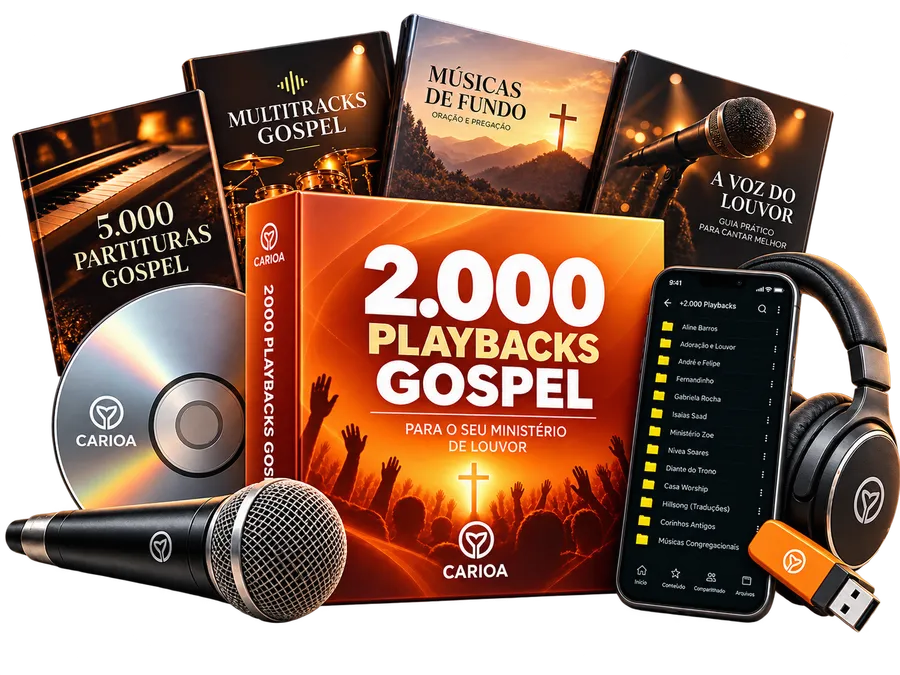
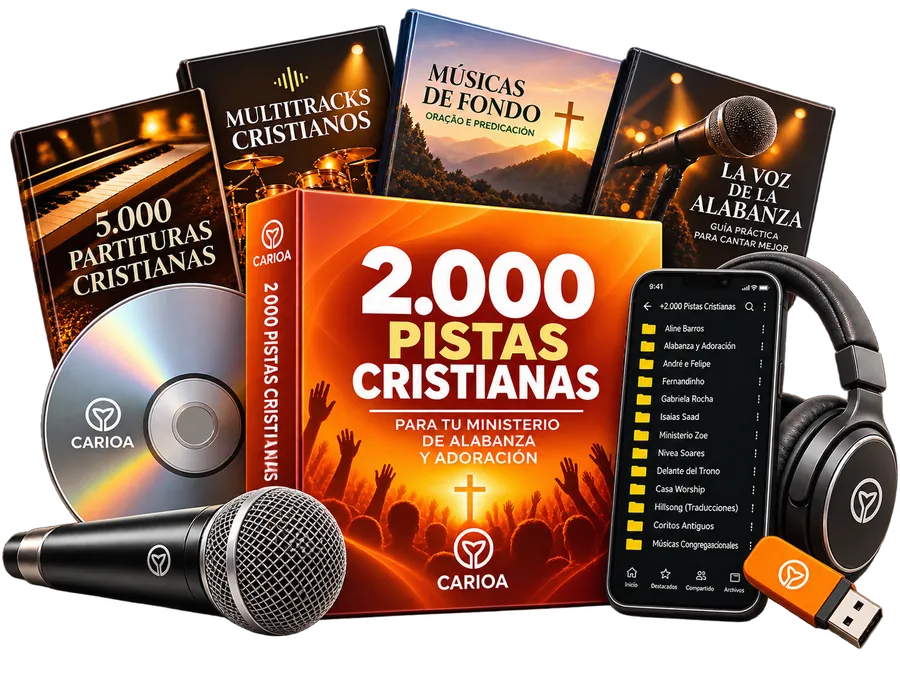
Troca os mockups pelas novas artes em espanhol
- Topo, chamada final e imagem de compartilhamento com a caixa
  "2.000 Pistas Cristianas"
- Card do Completo e modal com o kit novo; "Lo que recibes" com a
  coleção nova
- Versão leve do topo (600px) para celulares simples
- Imagem do modal só carrega quando o modal abre
- og:image com o endereço completo do site

diff --git a/index.html b/index.html
@@ -12,18 +12,17 @@
     <meta property="og:description" content="Más de 2000 pistas cristianas de alta calidad. Acceso inmediato, directo a tu memoria USB.">
     <meta property="og:type" content="website">
     <meta property="og:locale" content="es_LA">
-    <!-- TROCAR pelo endereço final do site quando publicar (ex.: https://seusite.com/img/og.jpg) -->
-    <meta property="og:image" content="img/og.jpg">
+    <meta property="og:image" content="https://louvor-instantaneo.vercel.app/img/og.jpg?v=2">
     <meta property="og:image:width" content="1200">
     <meta property="og:image:height" content="630">
     <meta name="twitter:card" content="summary_large_image">
-    <meta name="twitter:image" content="img/og.jpg">
+    <meta name="twitter:image" content="https://louvor-instantaneo.vercel.app/img/og.jpg?v=2">
     <link rel="icon" href="favicon.ico">
     <meta name="theme-color" content="#dc2626">
     <link rel="preconnect" href="https://fonts.googleapis.com">
     <link rel="preconnect" href="https://fonts.gstatic.com" crossorigin>
     <link rel="stylesheet" href="https://fonts.googleapis.com/css2?family=Inter:wght@400;500;600;700;800;900&family=Poppins:wght@700;800&display=swap">
-    <link rel="preload" as="image" href="img/hero.webp?v=3">
+    <link rel="preload" as="image" href="img/hero.webp?v=4" imagesrcset="img/hero-600.webp?v=4 600w, img/hero.webp?v=4 1000w" imagesizes="(min-width: 768px) 672px, calc(100vw - 2rem)">
     <link rel="stylesheet" href="css/base.css">
     <link rel="stylesheet" href="css/extra.css">
     <link rel="stylesheet" href="css/tema.css">
@@ -47,7 +46,7 @@
           Se acabó improvisar en el culto. Descarga tus pistas cristianas hoy mismo, directo a tu memoria USB, de forma simple y práctica.
         </p>
         <div class="pb-hero-img w-full max-w-2xl mx-auto mb-10">
-          <img src="img/hero.webp?v=3" alt="2000 Pistas Cristianas para tu ministerio de alabanza" width="1000" height="693" class="w-full h-auto rounded-lg" fetchpriority="high">
+          <img src="img/hero.webp?v=4" srcset="img/hero-600.webp?v=4 600w, img/hero.webp?v=4 1000w" sizes="(min-width: 768px) 672px, calc(100vw - 2rem)" alt="2000 Pistas Cristianas para tu ministerio de alabanza" width="1000" height="693" class="w-full h-auto rounded-lg" fetchpriority="high">
         </div>
         <p class="pb-hero-preco"><span>De <s>US$ 27</s> por solo</span> <strong>US$ 9.90</strong><small>pago único · acceso inmediato</small></p>
         <button data-rolar class="w-full md:w-auto px-10 py-5 bg-green-500 hover:bg-green-600 active:bg-green-700 text-white text-xl md:text-2xl font-black rounded-xl shadow-[0_6px_0_#16a34a] hover:shadow-[0_4px_0_#16a34a] hover:translate-y-[2px] transition-all flex flex-col items-center justify-center uppercase tracking-wider">
@@ -85,7 +84,7 @@
         <div class="pb-receb-card">
           <h2 class="pb-receb-h">Mira lo que recibes en la práctica</h2>
           <p class="pb-receb-p">Todo separado en carpetas, tal como llega a tu Google Drive.</p>
-          <div class="pb-receb-produto"><img src="img/por-dentro-900.webp" srcset="img/por-dentro-900.webp 900w, img/por-dentro-1600.webp 1600w" sizes="(min-width: 768px) 736px, 100vw" alt="Por dentro del paquete: acordes y partituras, carpetas por cantante en el celular, caja con memoria USB y las canciones en MP3 en la computadora" width="1600" height="741" loading="lazy"></div>
+          <div class="pb-receb-produto"><img src="img/por-dentro-900.webp?v=2" srcset="img/por-dentro-900.webp?v=2 900w, img/por-dentro-1600.webp?v=2 1600w" sizes="(min-width: 768px) 736px, 100vw" alt="Por dentro del paquete: acordes y partituras, carpetas por cantante en el celular, caja con memoria USB y las canciones en MP3 en la computadora" width="1600" height="741" loading="lazy"></div>
           <ul class="pb-receb-chips"><li>Carpetas por cantante</li><li>Canciones en MP3</li><li>Acordes y partituras</li></ul>
           <div class="pb-kit">
           <div class="pb-kit-item"><span class="pb-kit-n">2000</span><span class="pb-kit-t">Pistas cristianas</span><p>MP3 en alta calidad, listas para sonar en el culto.</p></div>
@@ -202,7 +201,7 @@
             <div class="cp-of cp-of-premium bg-white rounded-2xl p-6 md:p-8 flex flex-col border-4 border-green-500 shadow-2xl relative transform md:-translate-y-4">
               <div class="cp-of-badge absolute top-0 left-1/2 -translate-x-1/2 -translate-y-1/2 bg-green-500 text-white font-black px-6 py-2 rounded-full uppercase tracking-widest text-sm shadow-lg whitespace-nowrap">¡EL MÁS VENDIDO!</div>
               <h3 class="cp-of-t text-3xl font-black text-gray-900 mb-2 mt-4 text-center">Paquete Completo</h3>
-              <img src="img/completo.webp?v=2" alt="Paquete Completo con bonos" width="900" height="675" loading="lazy" class="w-full mx-auto h-auto drop-shadow-md mb-6">
+              <img src="img/completo.webp?v=3" alt="Paquete Completo con bonos" width="900" height="674" loading="lazy" class="w-full mx-auto h-auto drop-shadow-md mb-6">
               <ul class="cp-pl">
                 <li class="cp-pi"><span class="cp-pi-ico"><svg viewBox="0 0 24 24" fill="none" stroke="currentColor" stroke-width="3" stroke-linecap="round" stroke-linejoin="round" aria-hidden="true"><path d="M5 12.5l4.5 4.5L19 7.5"/></svg></span><span>2000 Pistas Cristianas</span></li>
                 <li class="cp-pi"><span class="cp-pi-ico"><svg viewBox="0 0 24 24" fill="none" stroke="currentColor" stroke-width="3" stroke-linecap="round" stroke-linejoin="round" aria-hidden="true"><path d="M5 12.5l4.5 4.5L19 7.5"/></svg></span><span>+100 Letras con acordes</span></li>
@@ -269,7 +268,7 @@
       <!-- ===================== FINAL ===================== -->
       <section class="cp-fim">
         <div class="cp-fim-in">
-          <img class="pb-fim-produto" src="img/produto-fim.webp" alt="Kit 2000 Pistas Cristianas: caja, CD, micrófono, memoria USB, celular y audífonos" width="760" height="472" loading="lazy">
+          <img class="pb-fim-produto" src="img/produto-fim.webp?v=2" alt="Kit 2000 Pistas Cristianas: caja, CD, micrófono, memoria USB, celular y audífonos" width="760" height="527" loading="lazy">
           <p class="cp-fim-tag">Oferta especial de hoy</p>
           <h2 class="cp-fim-h">El culto no espera. <span>Ten la pista correcta en el momento correcto.</span></h2>
           <button data-rolar class="cp-final-btn cp-fim-btn bg-green-500 text-white">Quiero mi acceso</button>
@@ -282,7 +281,7 @@
         <div class="pb-modal-card bg-white rounded-2xl w-full max-w-md p-5 text-center relative shadow-2xl">
           <h3 class="text-xl md:text-2xl font-black text-red-600 mb-1 leading-tight uppercase">¡Espera! ¡Condición única!</h3>
           <p class="text-sm font-bold text-gray-800 mb-3">Por solo <span class="text-green-600">US$ 10 más</span> te llevas el Paquete Completo.</p>
-          <img src="img/completo.webp?v=2" alt="Paquete Completo" width="900" height="675" class="w-48 mx-auto h-auto drop-shadow-md mb-3">
+          <img src="img/completo.webp?v=3" alt="Paquete Completo" width="900" height="674" loading="lazy" class="w-48 mx-auto h-auto drop-shadow-md mb-3">
           <div class="bg-green-50 border border-green-100 rounded-xl p-3 mb-3 text-left">
             <p class="text-xs font-bold text-green-800 mb-2 text-center uppercase">Vas a agregar:</p>
             <ul class="space-y-1.5 text-xs text-gray-800 font-medium">
